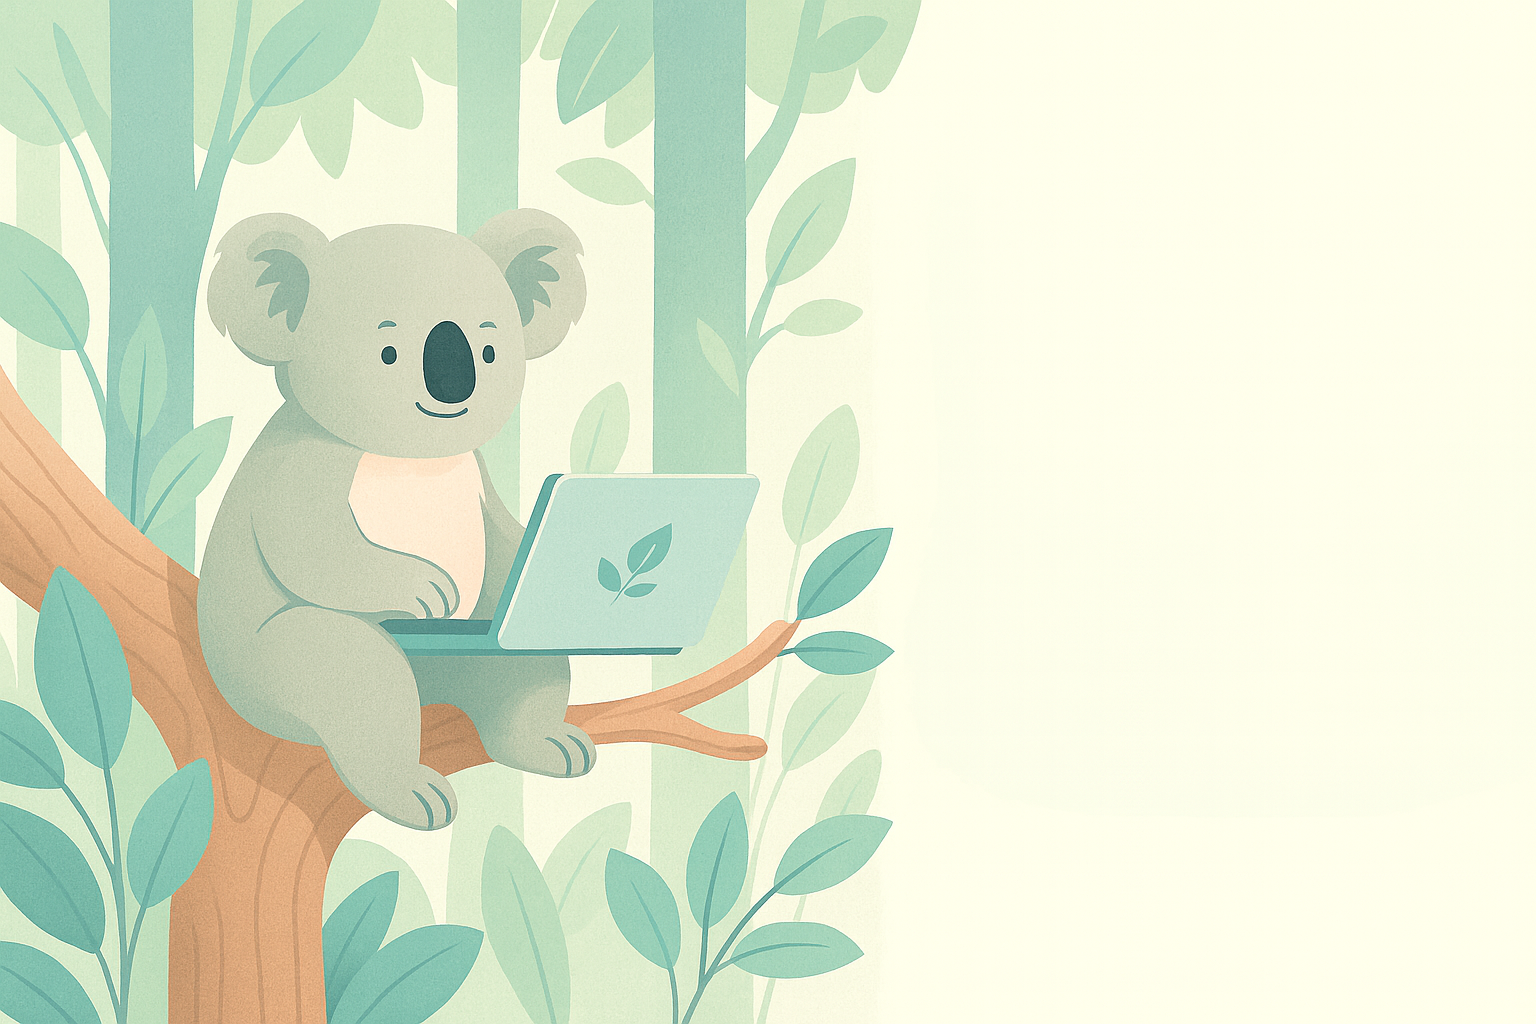
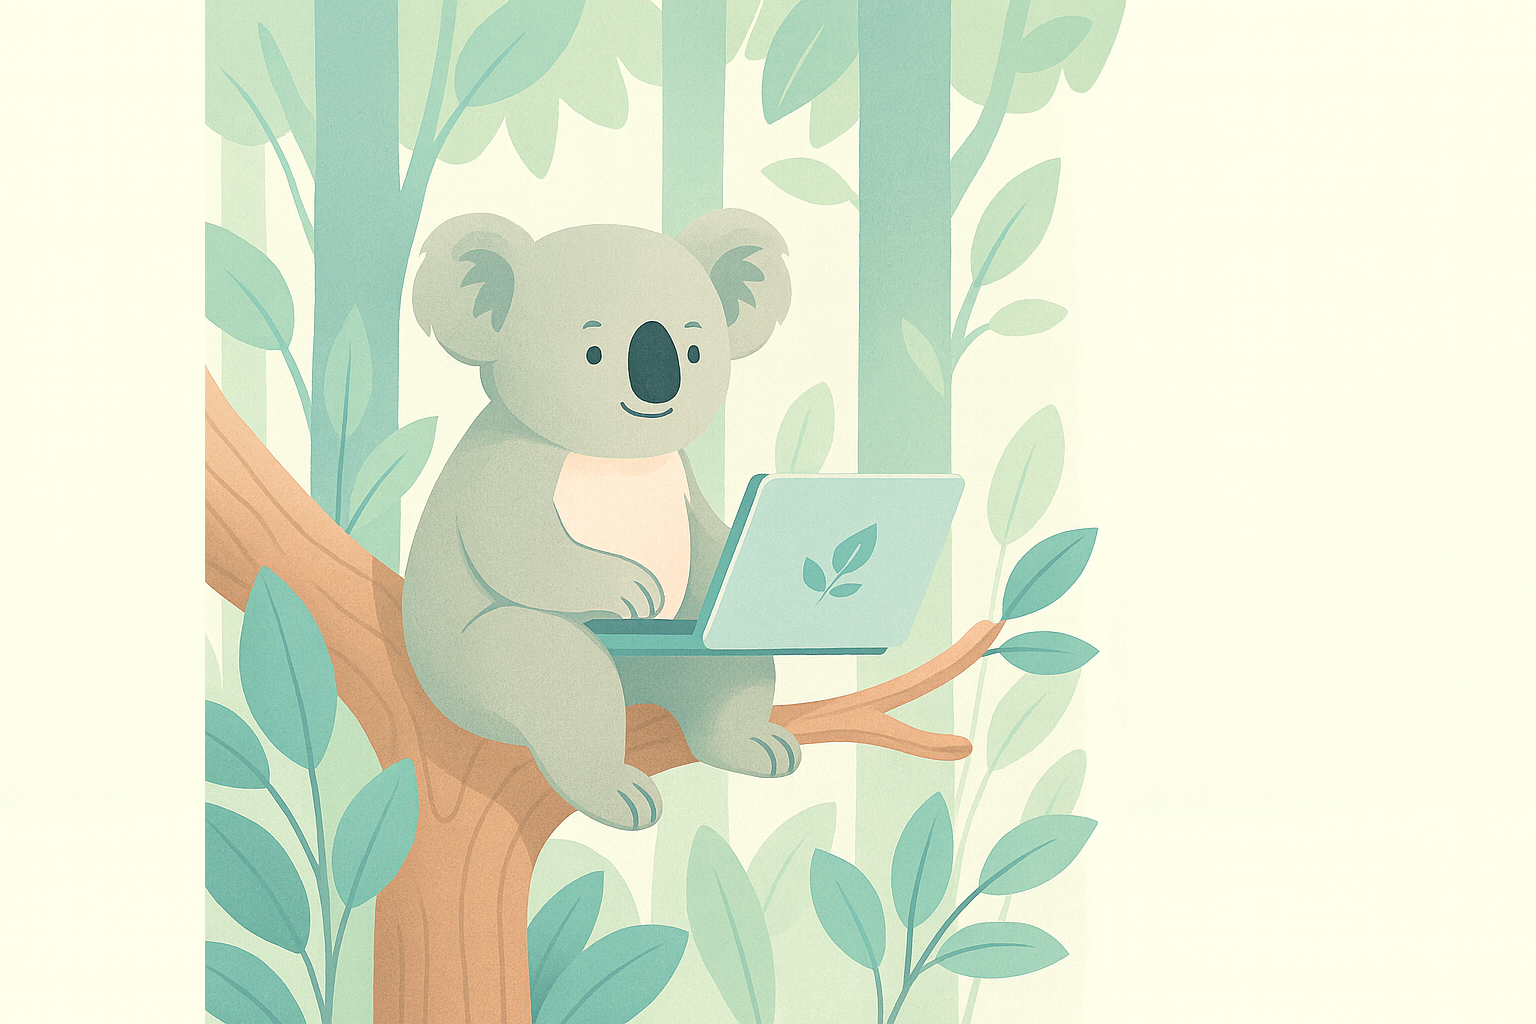
Koalapdate view

diff --git a/app/(full)/login/page.tsx b/app/(full)/login/page.tsx
@@ -14,11 +14,11 @@ export default function LoginPage() {
   return (
     <div className="flex h-screen w-full bg-koala-mint/20 dark:bg-default-100/20">
       {/* 🐨 Left Side Illustration */}
-      <div className="hidden lg:flex flex-1 items-center justify-center bg-white dark:bg-default-100/10">
+      <div className="hidden lg:flex flex-1 items-center justify-center bg-white dark:bg-default-100/10 overflow-hidden">
         <img
           src="/koala-login-illustration.png"
           alt="Koala chill coding"
-          className="object-contain"
+          className="w-full h-full object-cover"
         />
       </div>
 
@@ -36,8 +36,8 @@ export default function LoginPage() {
             <Input
               label="Email atau Username"
               placeholder="Masukkan email atau username"
-              variant="bordered"
-              color="primary"
+              variant="flat"
+              // color="primary"
               value={email}
               onChange={(e) => setEmail(e.target.value)}
               startContent={<FiMail className="text-default-400" />}
@@ -47,8 +47,8 @@ export default function LoginPage() {
             <Input
               label="Password"
               placeholder="Masukkan password"
-              variant="bordered"
-              color="primary"
+              variant="flat"
+              // color="primary"
               type={showPassword ? "text" : "password"}
               value={password}
               onChange={(e) => setPassword(e.target.value)}

diff --git a/app/(with-ui)/components/NavbarKoala.tsx b/app/(with-ui)/components/NavbarKoala.tsx
@@ -48,7 +48,7 @@ export default function NavbarKoala({ onToggleSidebar }: NavbarKoalaProps) {
           <ThemeSwitch />
         </NavbarItem>
         <NavbarItem>
-          <Dropdown placement="bottom-end">
+          <Dropdown showArrow placement="bottom-end">
             <DropdownTrigger>
               <Avatar
                 isBordered
@@ -58,7 +58,7 @@ export default function NavbarKoala({ onToggleSidebar }: NavbarKoalaProps) {
                 className="cursor-pointer hover:opacity-90 transition-all"
               />
             </DropdownTrigger>
-            <DropdownMenu aria-label="User menu" variant="flat" className="w-48">
+            <DropdownMenu aria-label="User menu" variant="flat">
               <DropdownItem key="profile" textValue="Profile">
                 <div className="flex flex-col">
                   <span className="font-medium">Koalawan</span>
